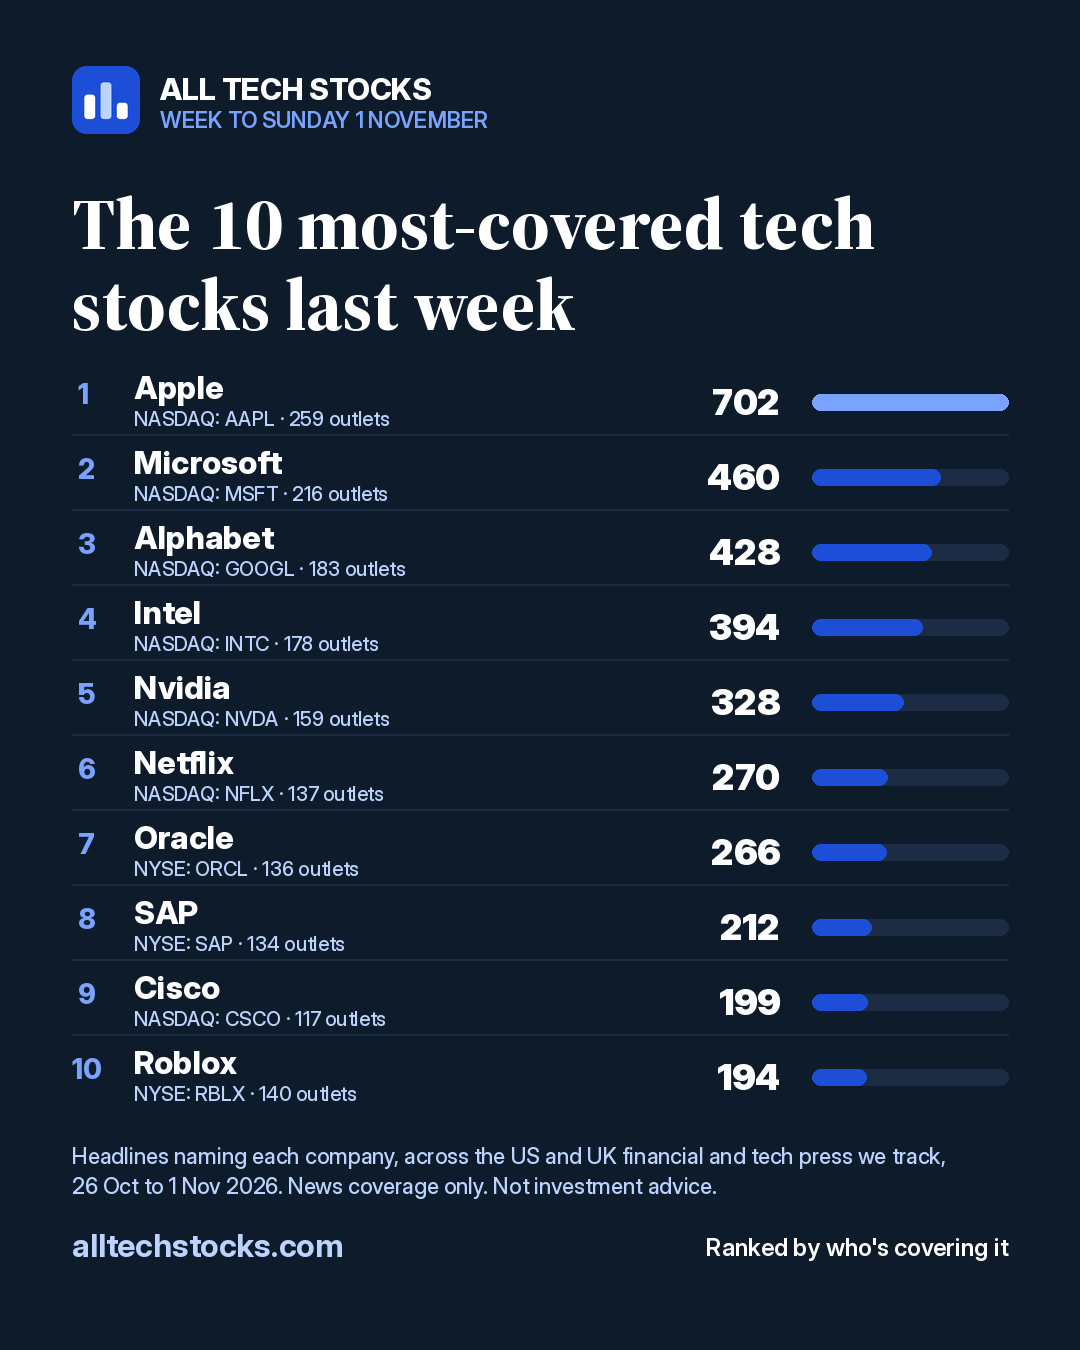
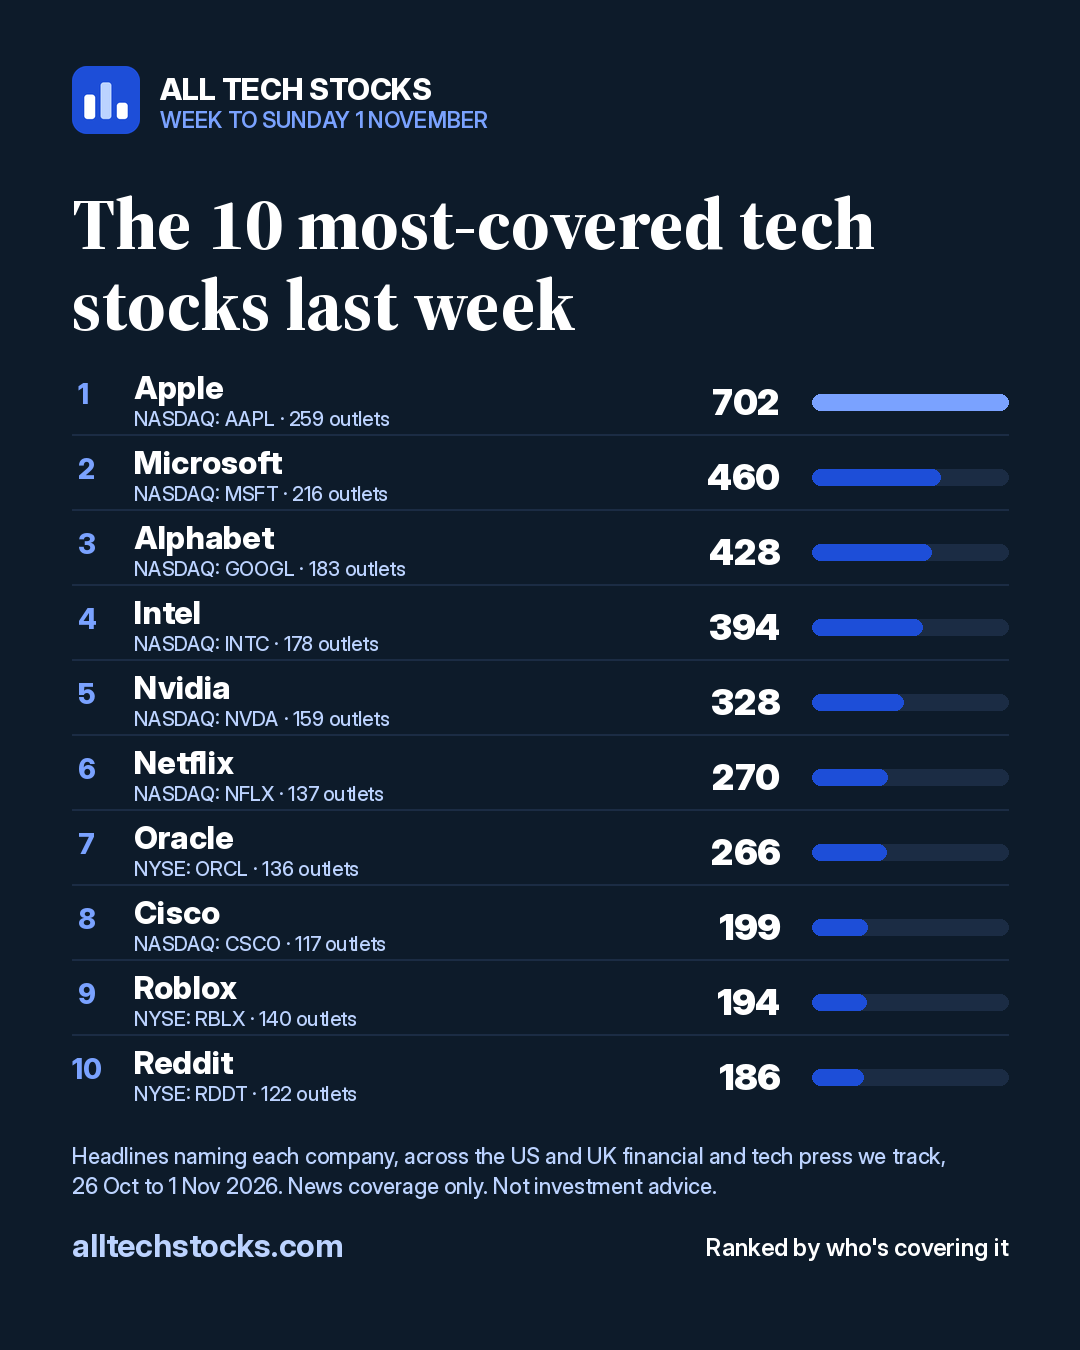
Company country = where it's headquartered; listed in New York or London
Removes SAP, ASML, NXP, TSMC, Spotify, Shopify, Accenture and Seagate.
Arm (Cambridge, listed in New York) moves to the UK side via country: UK;
listing-based things (SEC filings, price widgets, page slugs) still follow
the exchange. Adds Gartner, Fair Isaac, PTC, Tyler Technologies, Dropbox,
HubSpot, Nutanix, Amphenol, Jabil, F5, Zebra, Trimble and Pure Storage.
Rebuilds this week's LinkedIn cards.

Claude-Session: https://claude.ai/code/session_01Wgur947LbmuJhBzfK44Hrm

diff --git a/templates/pages/about.html b/templates/pages/about.html
@@ -3,7 +3,7 @@
 <p class="lede">{{ site.name }} shows which US and UK listed tech companies the news is covering most, updated every hour. It's a place to start your research. It never tells you what to buy or sell.</p>
 
 <h2>How it works</h2>
-<p>Every hour we check about 45 news sources: Reuters, Bloomberg, the FT, the Wall Street Journal, CNBC and the rest of the US and UK financial press, plus tech titles, company newsrooms and London Stock Exchange announcements. We also run news searches covering all {{ stocks|length }} companies we follow, a few at a time. To decide what counts as a tech stock we use the official classifications: for the US, companies in the Information Technology and Communication Services sectors of the standard used by the S&P 500; for the UK, companies based in the UK with their main listing in London that the London Stock Exchange files under Technology or Telecommunications. When several outlets report the same event, we group their articles into one story.</p>
+<p>Every hour we check about 45 news sources: Reuters, Bloomberg, the FT, the Wall Street Journal, CNBC and the rest of the US and UK financial press, plus tech titles, company newsrooms and London Stock Exchange announcements. We also run news searches covering all {{ stocks|length }} companies we follow, a few at a time. We follow US and UK companies: a company counts as US or UK by where it's headquartered, and it must be listed in New York or London. To decide what counts as tech we use the official classifications: for the US, the Information Technology and Communication Services sectors of the standard used by the S&P 500; for the UK, the companies the London Stock Exchange files under Technology or Telecommunications. When several outlets report the same event, we group their articles into one story.</p>
 <p>Stories are ranked by how many outlets are covering them. A major financial paper counts for more than a specialist title. A story has to name a US or UK listed tech company we follow to appear, unless it's about tech shares as a whole and widely covered (two national papers, say). Older stories lose half their score every 12 hours, so the top of the page shows what's being covered right now. The stock table works the same way. Nobody picks the order by hand.</p>
 <p>Every headline links straight to the publisher that wrote it. We don't copy or rewrite articles.</p>
 

diff --git a/templates/stock.html b/templates/stock.html
@@ -1,7 +1,7 @@
 {% extends "base.html" %}
 {% from "_macros.html" import row with context %}
 {% block title %}{{ stock.name }} ({{ stock.symbol }}) news and filings: {{ site.name }}{% endblock %}
-{% block description %}The latest {{ stock.name }} ({{ stock.exchange }}: {{ stock.symbol }}) news from every major outlet{% if stock.market == "US" %}, plus SEC filings{% endif %}, ranked by coverage. News for research, not financial advice.{% endblock %}
+{% block description %}The latest {{ stock.name }} ({{ stock.exchange }}: {{ stock.symbol }}) news from every major outlet{% if stock.listing == "US" %}, plus SEC filings{% endif %}, ranked by coverage. News for research, not financial advice.{% endblock %}
 {% block og_title %}{{ stock.name }} ({{ stock.symbol }}): news ranked by who's covering it{% endblock %}
 {% block og_url %}{{ site.url }}/stocks/{{ stock.slug }}.html{% endblock %}
 {% block main %}
@@ -10,7 +10,7 @@
   <span class="tk">{{ stock.exchange }}: {{ stock.symbol }}</span>
 </div>
 <p class="facts">
-  <span>Listed in the <b>{{ stock.market }}</b></span>
+  <span>Listed in the <b>{{ stock.listing }}</b></span>
   <span>Type: <b>{{ stock.group|capitalize }}</b></span>
   <span>Stories today: <b>{{ summary.day }}</b></span>
   <span>This week: <b>{{ summary.week }}</b></span>
@@ -41,7 +41,7 @@
 
   <aside>
     <section class="panel">
-      {% if stock.market == "UK" %}
+      {% if stock.listing == "UK" %}
       <div class="panel-head"><h2>Price</h2><p>Opens in a new tab.</p></div>
       <div class="price-box">
         <p>We can't show London Stock Exchange prices here yet. See the {{ stock.name }} price and chart on TradingView.</p>
@@ -65,7 +65,7 @@
       {% endif %}
     </section>
 
-    {% if stock.market == "US" %}
+    {% if stock.listing == "US" %}
     <section class="panel">
       <div class="panel-head"><h2>SEC filings</h2><p>Last 60 days, newest first.</p></div>
       {% if filings %}
@@ -92,7 +92,7 @@
   </aside>
 </div>
 
-{% if prices.widgets and stock.market == "US" %}
+{% if prices.widgets and stock.listing == "US" %}
 <script>
 (function () {
   var box = document.getElementById("price-box"); if (!box) return;

diff --git a/engine/config.py b/engine/config.py
@@ -49,16 +49,23 @@ class Stock:
     results: str | None = None     # next results date, YYYY-MM-DD, if known
     ignore: list[str] = field(default_factory=list)  # phrases that look like the name but aren't ("per capita")
     query: list[str] = field(default_factory=list)   # Google News search phrases, when the name alone is too vague ("Zoom")
+    country: str = ""              # UK or US, where the company is based, when that differs from where it's listed (Arm)
+
+    @property
+    def listing(self) -> str:
+        """Where the shares trade: UK for the London Stock Exchange, US otherwise."""
+        return "UK" if self.exchange == "LSE" else "US"
 
     @property
     def market(self) -> str:
-        return "UK" if self.exchange == "LSE" else "US"
+        """Which side of the site the company belongs to: where it's based. Usually where it's listed too."""
+        return self.country or self.listing
 
     @property
     def slug(self) -> str:
         """File name for the stock's page. UK tickers get -l so they never clash with a US one."""
         s = re.sub(r"[^a-z0-9]+", "-", self.symbol.lower()).strip("-")
-        return f"{s}-l" if self.market == "UK" else s
+        return f"{s}-l" if self.listing == "UK" else s
 
     @property
     def tv_symbol(self) -> str:

diff --git a/engine/weekly.py b/engine/weekly.py
@@ -131,7 +131,7 @@ def _results(db: DB, cfg: Config, tagger: Tagger, since: datetime, max_companies
 
     reporters = dict(out_at)
     for st in cfg.stocks:
-        if st.market == "UK" and st.symbol not in reporters:
+        if st.listing == "UK" and st.symbol not in reporters:
             hits = [i for i in per_symbol.get(st.symbol, []) if UK_RESULTS_RE.search(i["title"])]
             if len({i["outlet_id"] or i["outlet_name"] for i in hits}) >= 3:
                 reporters[st.symbol] = min(i["published"] for i in hits)
@@ -144,7 +144,7 @@ def _results(db: DB, cfg: Config, tagger: Tagger, since: datetime, max_companies
         # Allow a few hours before the filing: some outlets publish the moment the release is out.
         cutoff = iso(datetime.strptime(when, "%Y-%m-%dT%H:%M:%SZ").replace(tzinfo=since.tzinfo) - timedelta(hours=3))
         items = [i for i in per_symbol.get(sym, []) if i["published"] >= cutoff]
-        if stock.market == "UK":
+        if stock.listing == "UK":
             items = [i for i in items if UK_RESULTS_RE.search(i["title"]) or RESULTS_RE.search(i["title"])]
         facts, seen = [], set()
         for i in sorted(items, key=lambda i: -weight.get(i["outlet_id"] or i["source_id"], 1)):

diff --git a/engine/tickers.py b/engine/tickers.py
@@ -35,8 +35,8 @@ class Tagger:
         self.ignore_re = re.compile(r"(?<![\w])(" + _alternation(ignore) + r")(?![\w])", re.IGNORECASE) if ignore else None
         self.loose_re = re.compile(r"(?<![\w])(" + _alternation(list(loose)) + r")(?![\w])", re.IGNORECASE) if loose else None
         self.exact_re = re.compile(r"(?<![\w])(" + _alternation(list(exact)) + r")(?![\w])") if exact else None
-        self.us_symbols = {s.symbol for s in cfg.stocks if s.market == "US"}
-        self.uk_symbols = {s.symbol for s in cfg.stocks if s.market == "UK"}
+        self.us_symbols = {s.symbol for s in cfg.stocks if s.listing == "US"}
+        self.uk_symbols = {s.symbol for s in cfg.stocks if s.listing == "UK"}
         wide = cfg.rules.get("market", {}).get("wide", [])
         self.wide_re = re.compile(r"(?<![\w])(" + _alternation(wide) + r")(?![\w])", re.IGNORECASE) if wide else None
 

diff --git a/engine/edgar.py b/engine/edgar.py
@@ -122,7 +122,7 @@ def fetch_filings(cfg: Config, db: DB, now: datetime, fixtures: Path | None = No
     failures = []
 
     for stock in cfg.stocks:
-        if stock.market != "US":
+        if stock.listing != "US":
             continue
         stats["companies"] += 1
         if fixtures is not None:

diff --git a/README.md b/README.md
@@ -150,7 +150,7 @@ Settings under `linkedin:` in `config/rules.yaml`, code in `engine/linkedin.py`.
 
 ## The watchlist
 
-`config/watchlist.yaml` has 119 stocks: 82 US, 37 UK. Add or remove any. Each needs a symbol,
+`config/watchlist.yaml` has 124 stocks: 86 US, 38 UK. Add or remove any. Each needs a symbol,
 exchange (NASDAQ, NYSE or LSE), name and the aliases that should tag a story. Names that are also
 everyday words ("Arm", "Meta", "Oracle", "Sage") go under `exact` so only the capitalised form matches.
 Put quotes round tickers YAML reads as words, like `"ON"`. Add `results: 2026-11-19` to show a
@@ -161,8 +161,9 @@ Technology or Communication Services sectors. The Wikipedia list of S&P 500 comp
 one's sector. Amazon and Tesla (Consumer Discretionary), Uber (Industrials) and PayPal, Coinbase and
 Robinhood (Financials) are off the list for that reason.
 
-A UK stock has its main listing in London and its headquarters in the UK, so Eutelsat (Paris) and
-Trustpilot (Copenhagen) are off. Within that, the UK list follows the LSE's own classification: every
+A company belongs to the country where it's headquartered, and it must be listed in New York or London.
+So SAP, ASML, TSMC, Spotify and Shopify are off, and so are Eutelsat (Paris) and Trustpilot (Copenhagen).
+Arm is based in Cambridge but listed only in New York, so it has `country: UK` and sits on the UK side. Within that, the UK list follows the LSE's own classification: every
 company the exchange files under Technology (ICB industry), plus Telecommunications. Before adding a UK company, check its tearsheet on
 londonstockexchange.com. If it says something else (Experian is Industrials, Rightmove is Real Estate,
 Games Workshop is Leisure Goods), it doesn't go on.
